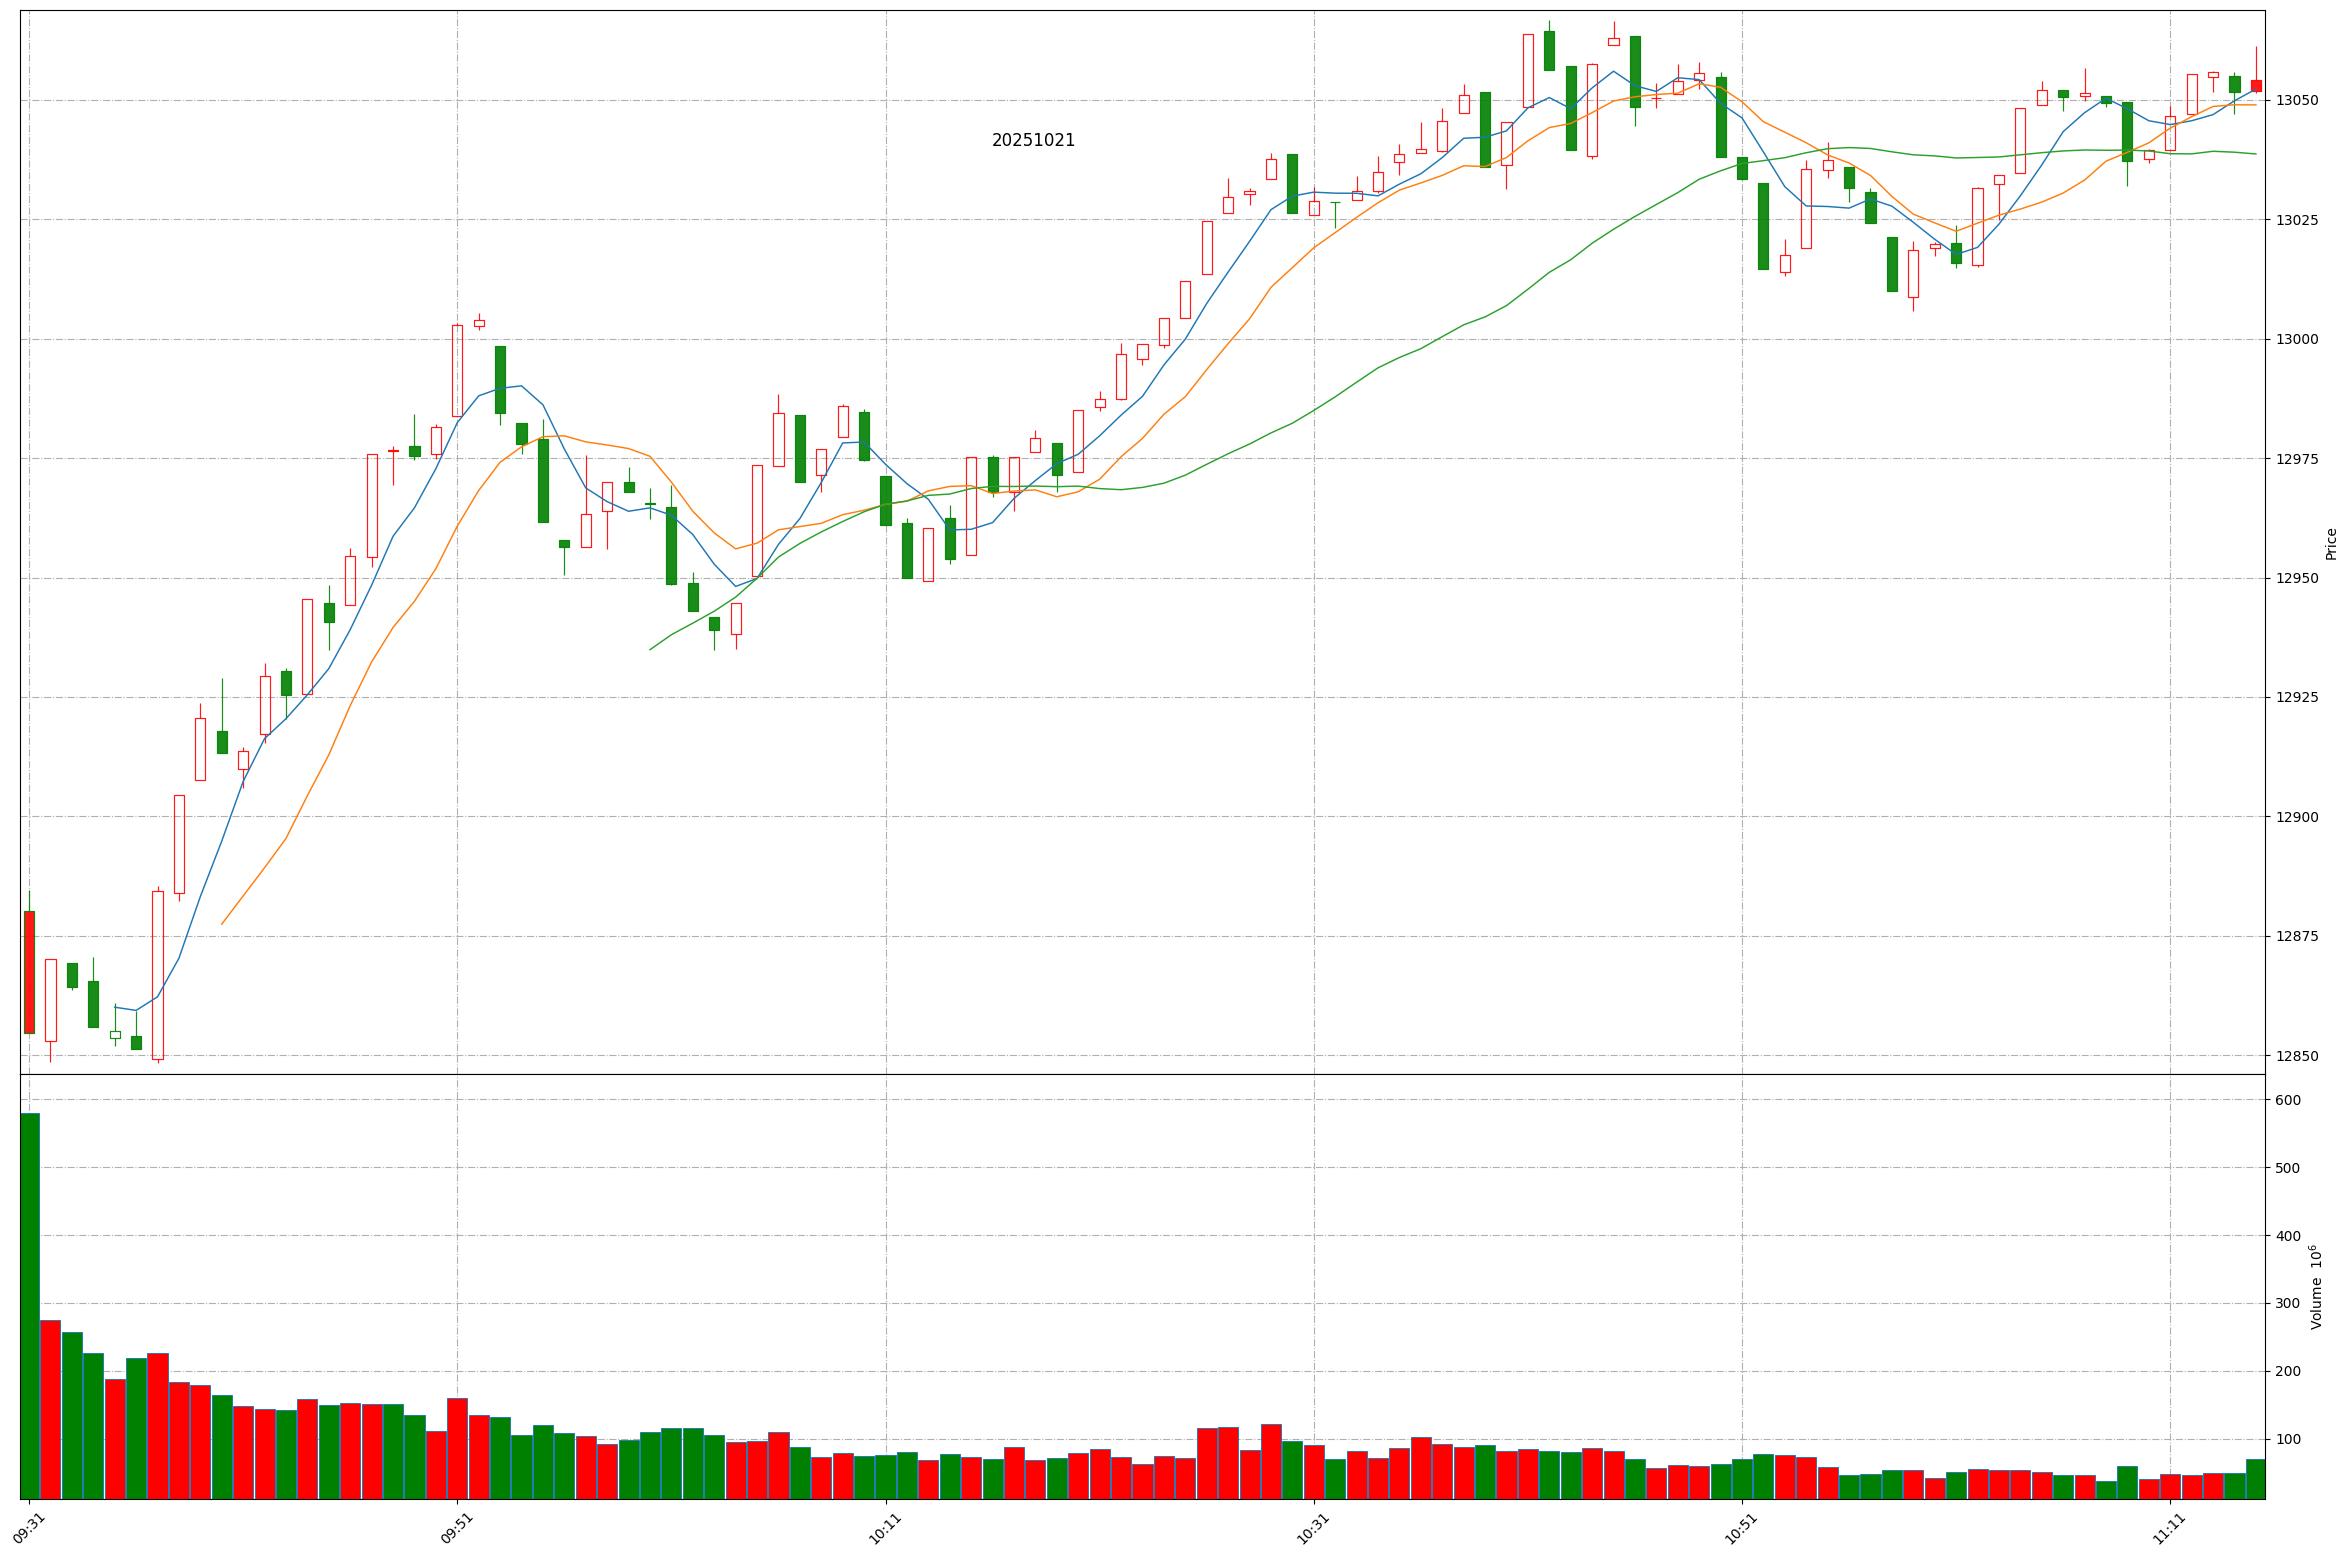
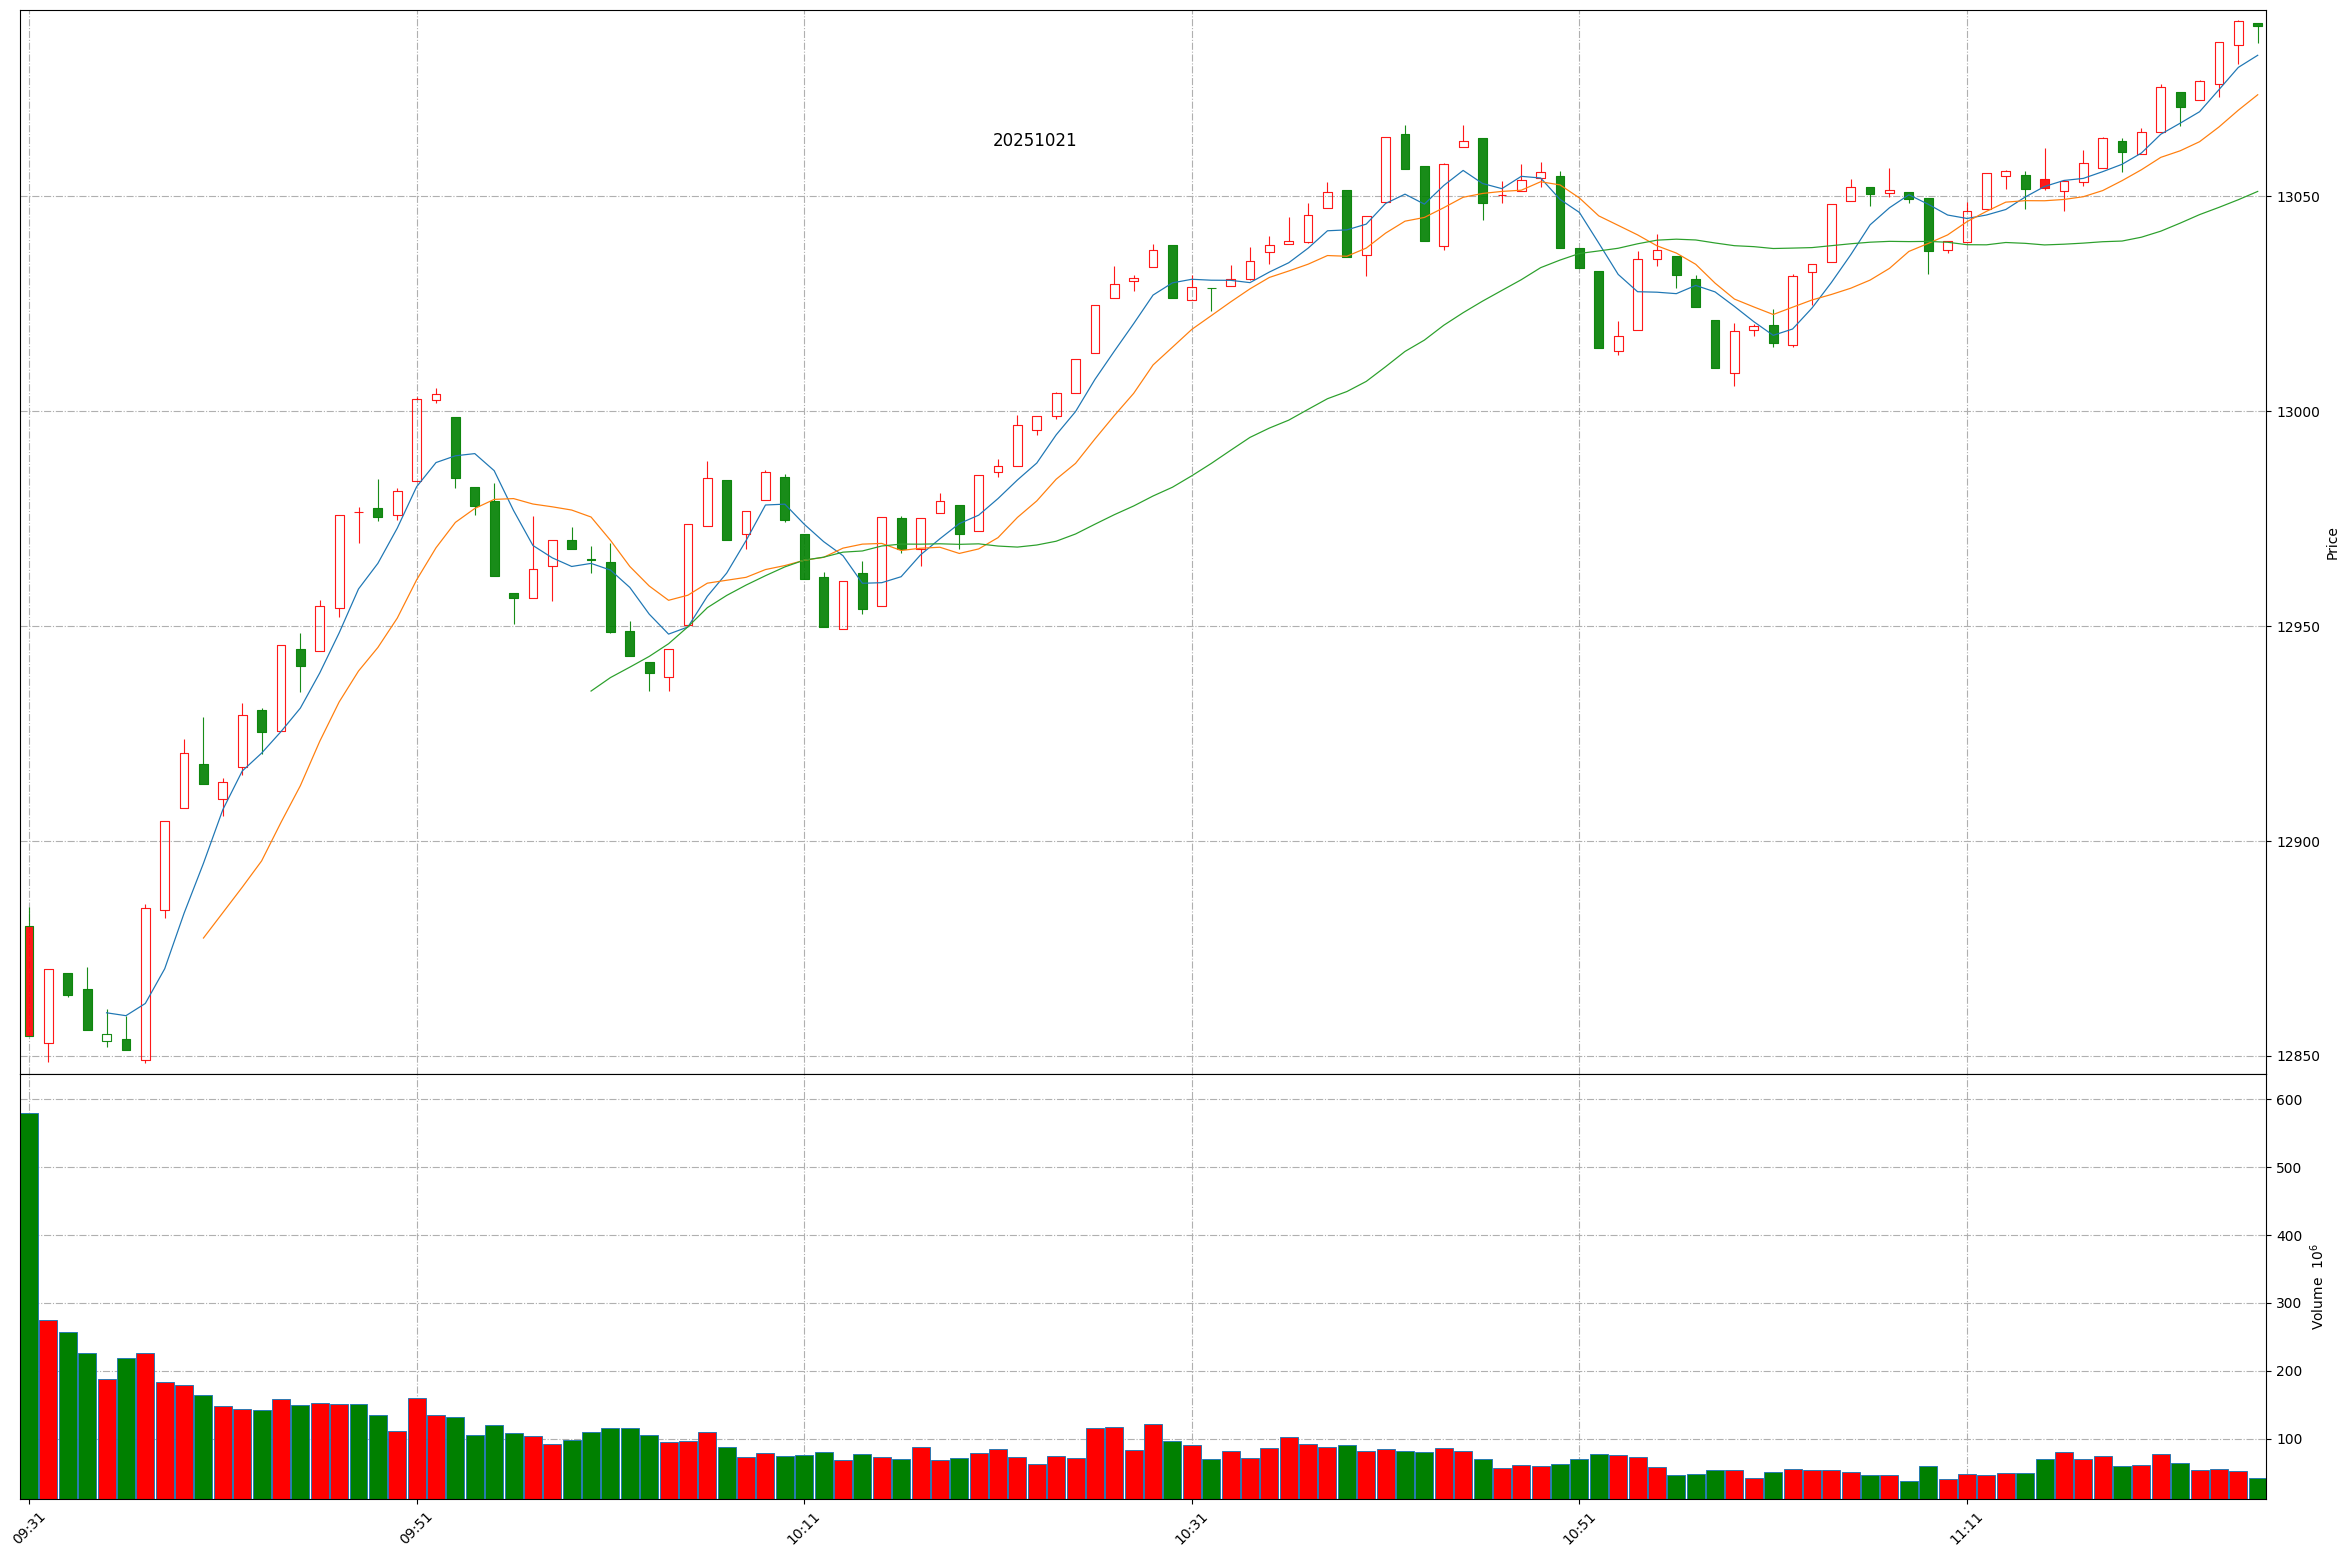
Github action update at 2025-10-21 11:26:02.

diff --git a/README.md b/README.md
@@ -1,11 +1,11 @@
 
 # Daily-A-share-market-quotes 每日 A 股指数（5min 更新）- 20251021
 
-### 上证指数 20251021 11:15
+### 上证指数 20251021 11:26
 ![](./fig/2025/10/20251021-sh000001.png)
 
-### 深证成指 20251021 11:15
+### 深证成指 20251021 11:26
 ![](./fig/2025/10/20251021-sz399001.png)
 
-### 北证50 20251021 11:15
+### 北证50 20251021 11:26
 ![](./fig/2025/10/20251021-bj899050.png)
